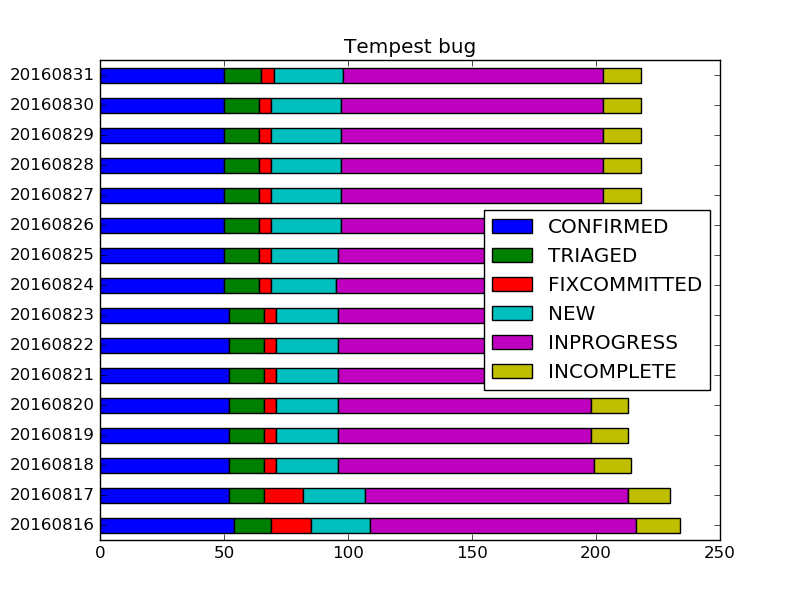
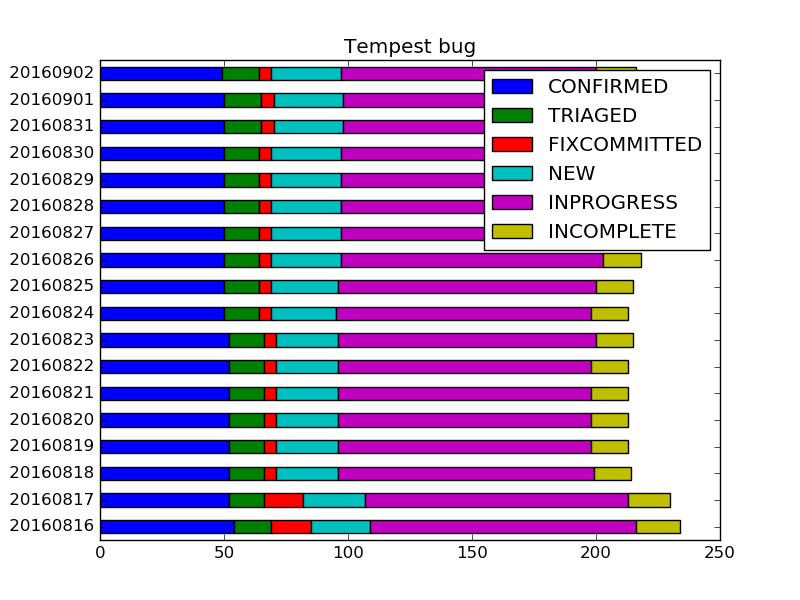
Update 2016/09/02 graph

diff --git a/make_graph.py b/make_graph.py
@@ -17,9 +17,10 @@ for row in reader:
         index = 1
         #print(bug_status)
         for colum in row:
-            if colum is '':
+            try:
+                count = int(colum)
+            except ValueError:
                 continue
-            count = int(colum)
             d = date[index]
             #print("%s: %s" % (d, count))
             if d not in data_list:
